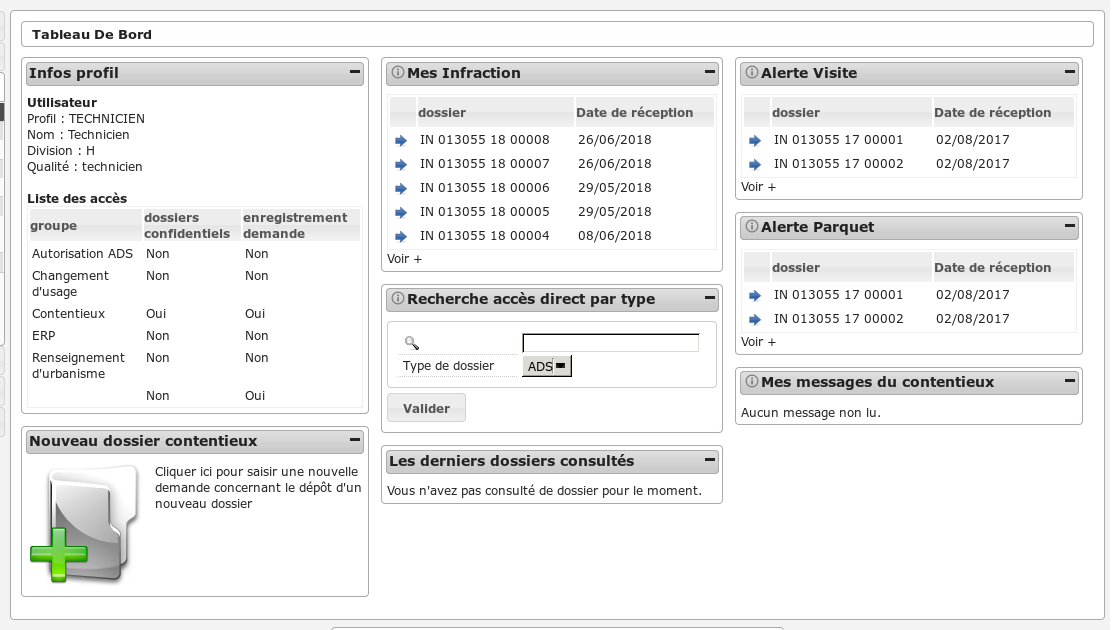
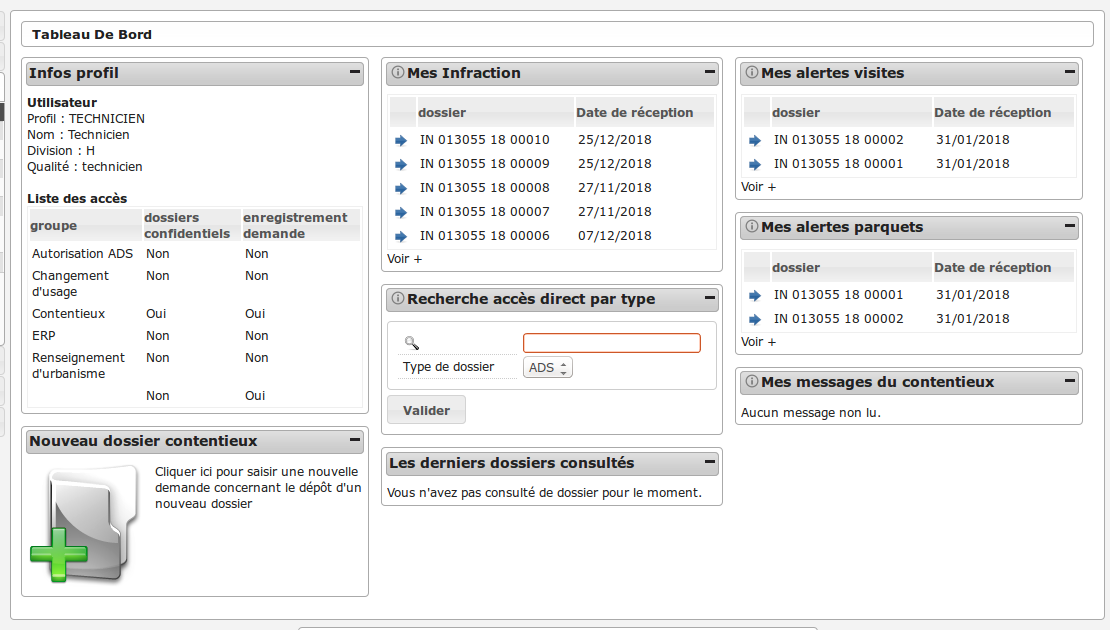
Nouvel argument dossier_encours widget d'alerte

diff --git a/source/manuel_utilisateur/ergonomie/index.rst b/source/manuel_utilisateur/ergonomie/index.rst
@@ -499,6 +499,8 @@ Trois filtres sont disponibles sur ce widget (le filtre est :ref:`paramétrable 
 - filtre par division : on présente tous les dossiers de la division de l'instructeur.
 - aucun filtre : tous les dossiers auxquels l'utilisateurs a accès (si l'utilisateur appartient à une commune niveau mono, alors l'utilisateur n'a accès qu'aux dossiers de sa commune et si l'utilisateur appartient à une commune multi, alors l'utilisateur a accès à tous les dossiers).
 
+Par défaut le widget affiche seulement les infractions dont l'état est considéré comme en cours d'instruction. Il est possible de :ref:`paramétrer <administration_widget_dossier_contentieux_alerte_visite>` ce filtre en tant qu'administrateur.
+
 A tout moment, au survol de l'icône d'information du widget, une description permet d'indiquer quels sont les paramètres appliqués sur le widget.
 
 Le listing présente les informations suivantes :
@@ -527,6 +529,8 @@ Trois filtres sont disponibles sur ce widget (le filtre est :ref:`paramétrable 
 - filtre par instructeur : on présente uniquement les dossiers dont il est spécifiquement instructeur.
 - filtre par division : on présente tous les dossiers de la division de l'instructeur.
 - aucun filtre : tous les dossiers auxquels l'utilisateurs a accès (si l'utilisateur appartient à une commune niveau mono, alors l'utilisateur n'a accès qu'aux dossiers de sa commune et si l'utilisateur appartient à une commune multi, alors l'utilisateur a accès à tous les dossiers).
+
+Par défaut le widget affiche seulement les infractions dont l'état est considéré comme en cours d'instruction. Il est possible de :ref:`paramétrer <administration_widget_dossier_contentieux_alerte_visite>` ce filtre en tant qu'administrateur.
 
 A tout moment, au survol de l'icône d'information du widget, une description permet d'indiquer quels sont les paramètres appliqués sur le widget.
 

diff --git a/source/manuel_utilisateur/administration.rst b/source/manuel_utilisateur/administration.rst
@@ -426,6 +426,7 @@ Les informations fonctionnelles sont disponibles :ref:`ici<widget_dossier_conten
 Un argument facultatif est paramétrable :
 
 * **filtre** [par défaut *instructeur*] - les filtres disponibles sont *aucun*, *instructeur* et *division*.
+* **dossier_encours** [par défaut *true*] - prend comme valeur *true* (affiche seulement les infractions dont l'état est considéré comme en cours d'instruction) ou *false*.
 
 
 .. _administration_widget_dossier_contentieux_alerte_parquet:
@@ -438,7 +439,7 @@ Les informations fonctionnelles sont disponibles :ref:`ici<widget_dossier_conten
 Un argument facultatif est paramétrable :
 
 * **filtre** [par défaut *instructeur*] - les filtres disponibles sont *aucun*, *instructeur* et *division*.
-
+* **dossier_encours** [par défaut *true*] - prend comme valeur *true* (affiche seulement les infractions dont l'état est considéré comme en cours d'instruction) ou *false*.
 
 .. _administration_widget_rss:
 
